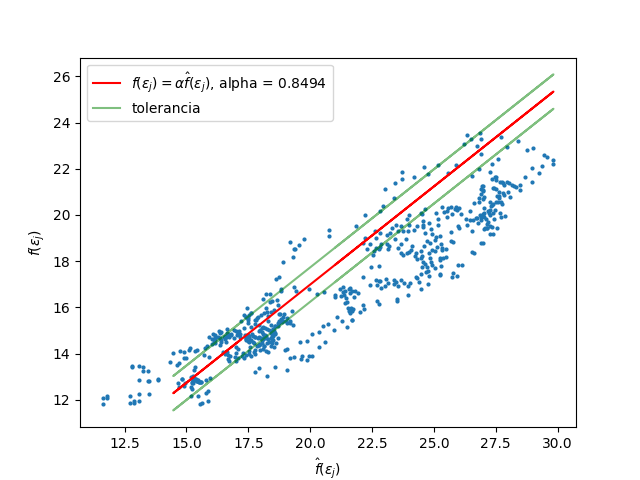
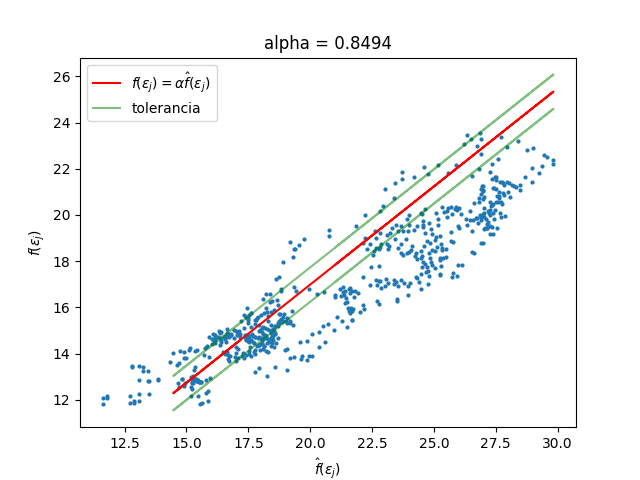
update

Changed region(s): [[0.4062, 0.0625, 0.625, 0.125], [0.3438, 0.1562, 0.5312, 0.1875]]

diff --git a/Codigos/asignacion1/calibracion.py b/Codigos/asignacion1/calibracion.py
@@ -92,11 +92,28 @@ for measure_path in measure_paths:
         eje_x = np.linspace(np.min(x), np.max(x), 100)
         eje_y = recta(eje_x)
 
+        y_pred = recta(x)
+        error = np.abs(y - y_pred)
+        tolerancia = np.mean(error)
+        tolerancia_porcentual = 100*np.sum( error <= tolerancia ) / np.prod(error.shape)
+        tolerancia_porcentual = np.round(tolerancia_porcentual, 2)
+
+        import seaborn as sns
+        plt.figure()
+        sns.displot(error, bins=25, kde=True);
+        tol= plt.axvline(x=tolerancia, color='green', linestyle='-', label='tolerancia')
+        plt.legend(handles=[tol])
+        plt.title(r"Histograma $ |f(\epsilon_j)  - \hat{f}(\epsilon_j) | $" + " %tolerancia: " + str(tolerancia_porcentual))
+        plt.savefig(
+            f'{save_path / measure_path}/tolerancia_0.png', bbox_inches='tight')
+
         plt.figure()
         label = r"$f(\epsilon_j) = \alpha \hat{f}(\epsilon_j)$"
-        label += f", alpha = {c}"
+
         plt.plot(eje_x, eje_y, color='red', label=label)
-        plt.title('')
+        plt.plot(eje_x, eje_y+tolerancia, color='green', label='tolerancia', alpha=0.5)
+        plt.plot(eje_x, eje_y-tolerancia, color='green', alpha=0.5)
+        plt.title( f"alpha = {round(c,3)}")
         plt.xlabel(r"$\hat{f}(\epsilon_j)$")
         plt.ylabel(r"$f(\epsilon_j)$")
         plt.scatter(x, y, s=4)
@@ -109,6 +126,8 @@ for measure_path in measure_paths:
         interleave_rolling.plot()
         plt.title(f'window: {window}, distance: {np.round(D, 4)}, calibrated distance: {np.round(calibrated_D, 4)}')
         plt.savefig(f'{save_path / measure_path}/calibration_train_100_test_0.png')
+
+
 
         # train / test
 
@@ -153,11 +172,10 @@ for measure_path in measure_paths:
 
             plt.figure()
             label = r"$f(\epsilon_j) = \alpha \hat{f}(\epsilon_j)$"
-            label += f", alpha = {np.round(c, 4)}"
             plt.plot(eje_x, y_pred, color='red', label=label)
             plt.plot(eje_x, y_pred+tolerancia, color='green', label='tolerancia', alpha=0.5)
             plt.plot(eje_x, y_pred-tolerancia, color='green', alpha=0.5)
-            plt.title('')
+            plt.title( f"alpha = {np.round(c, 4)}")
             plt.xlabel(r"$\hat{f}(\epsilon_j)$")
             plt.ylabel(r"$f(\epsilon_j)$")
             plt.scatter(x, y, s=4)
